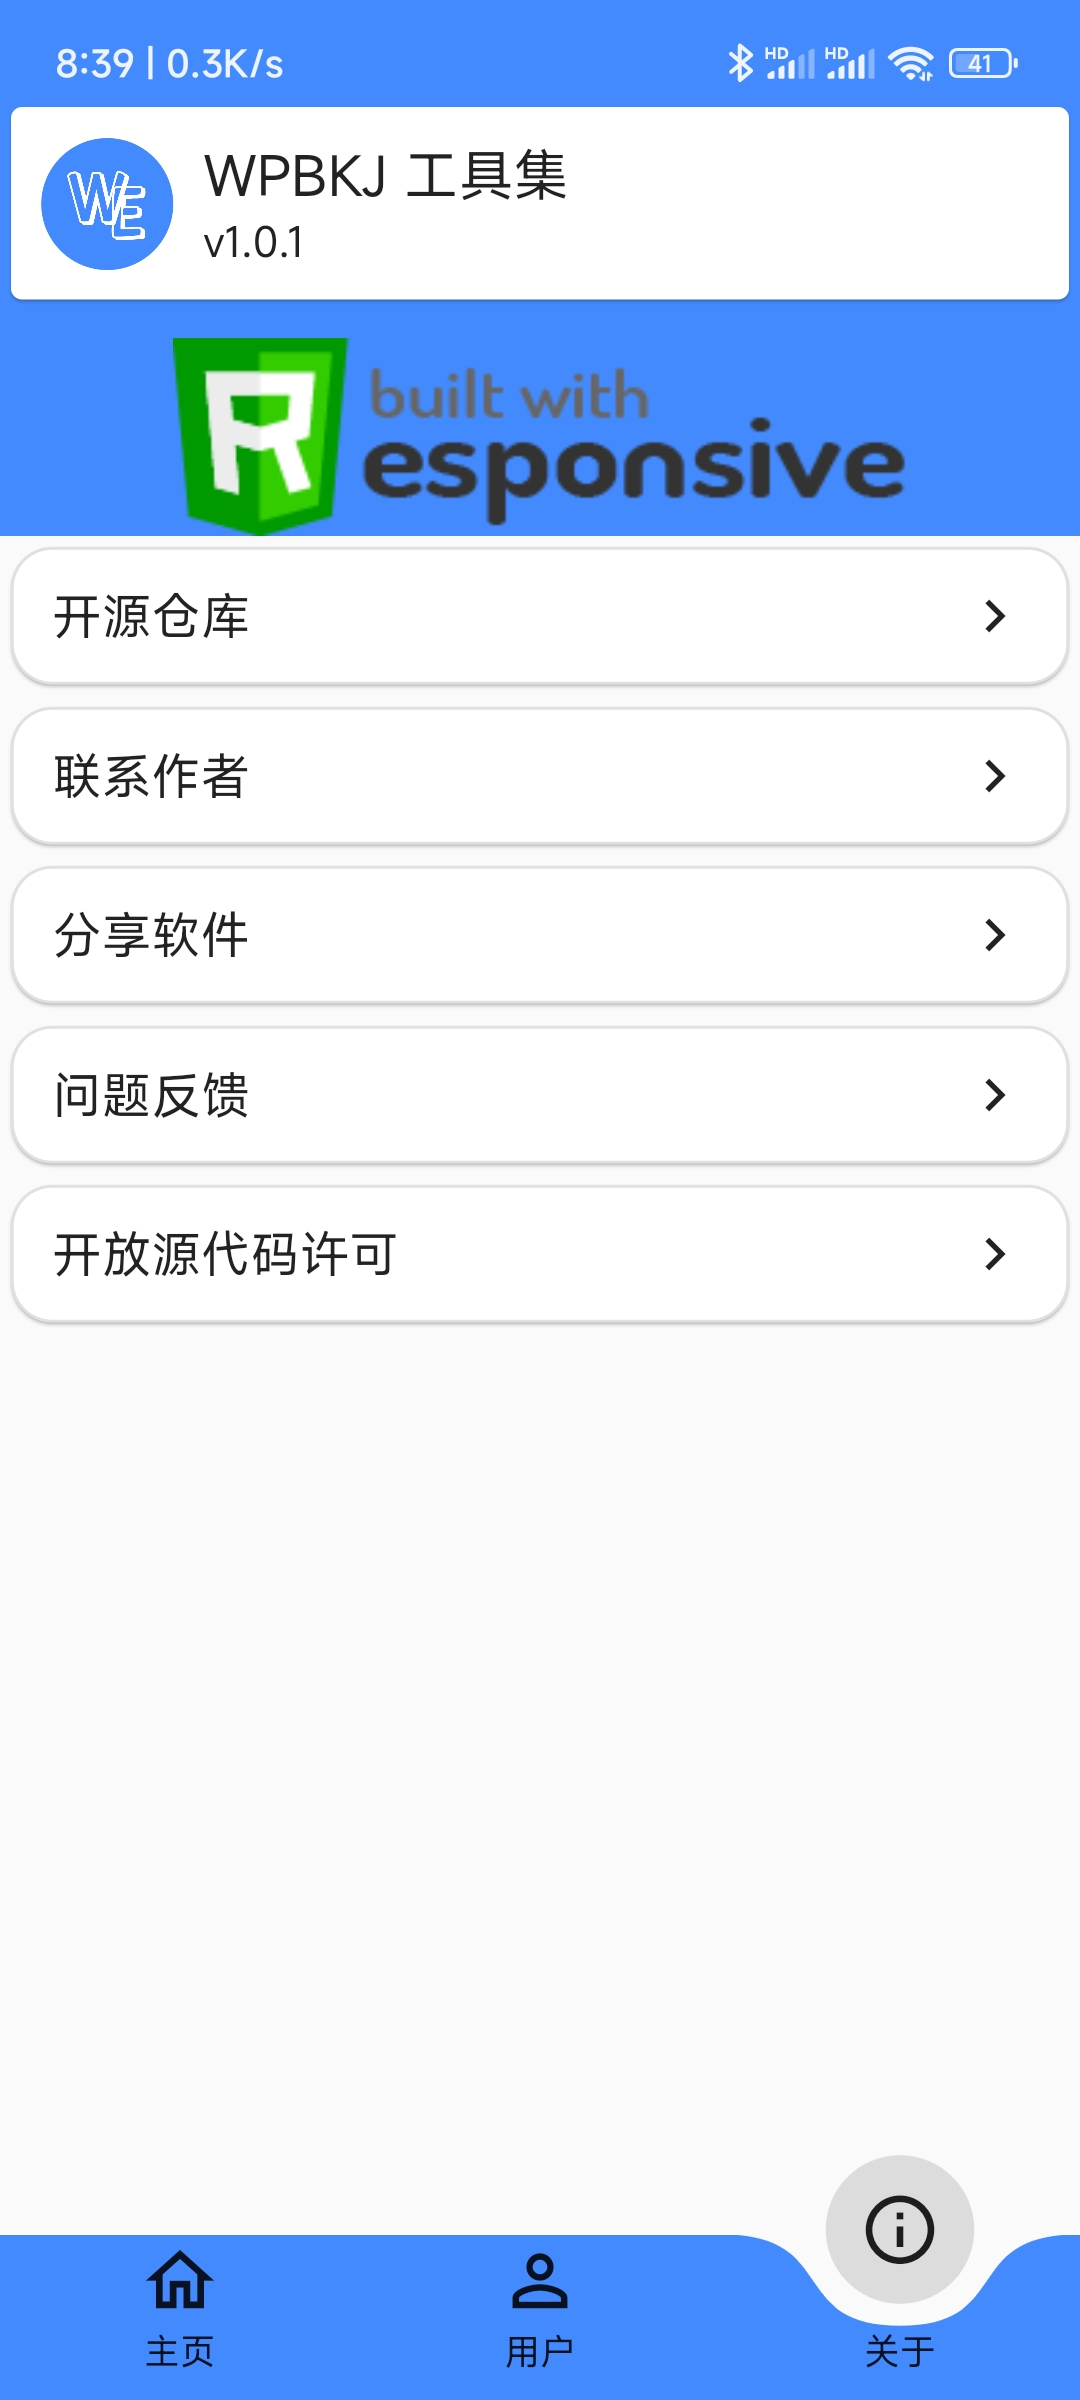
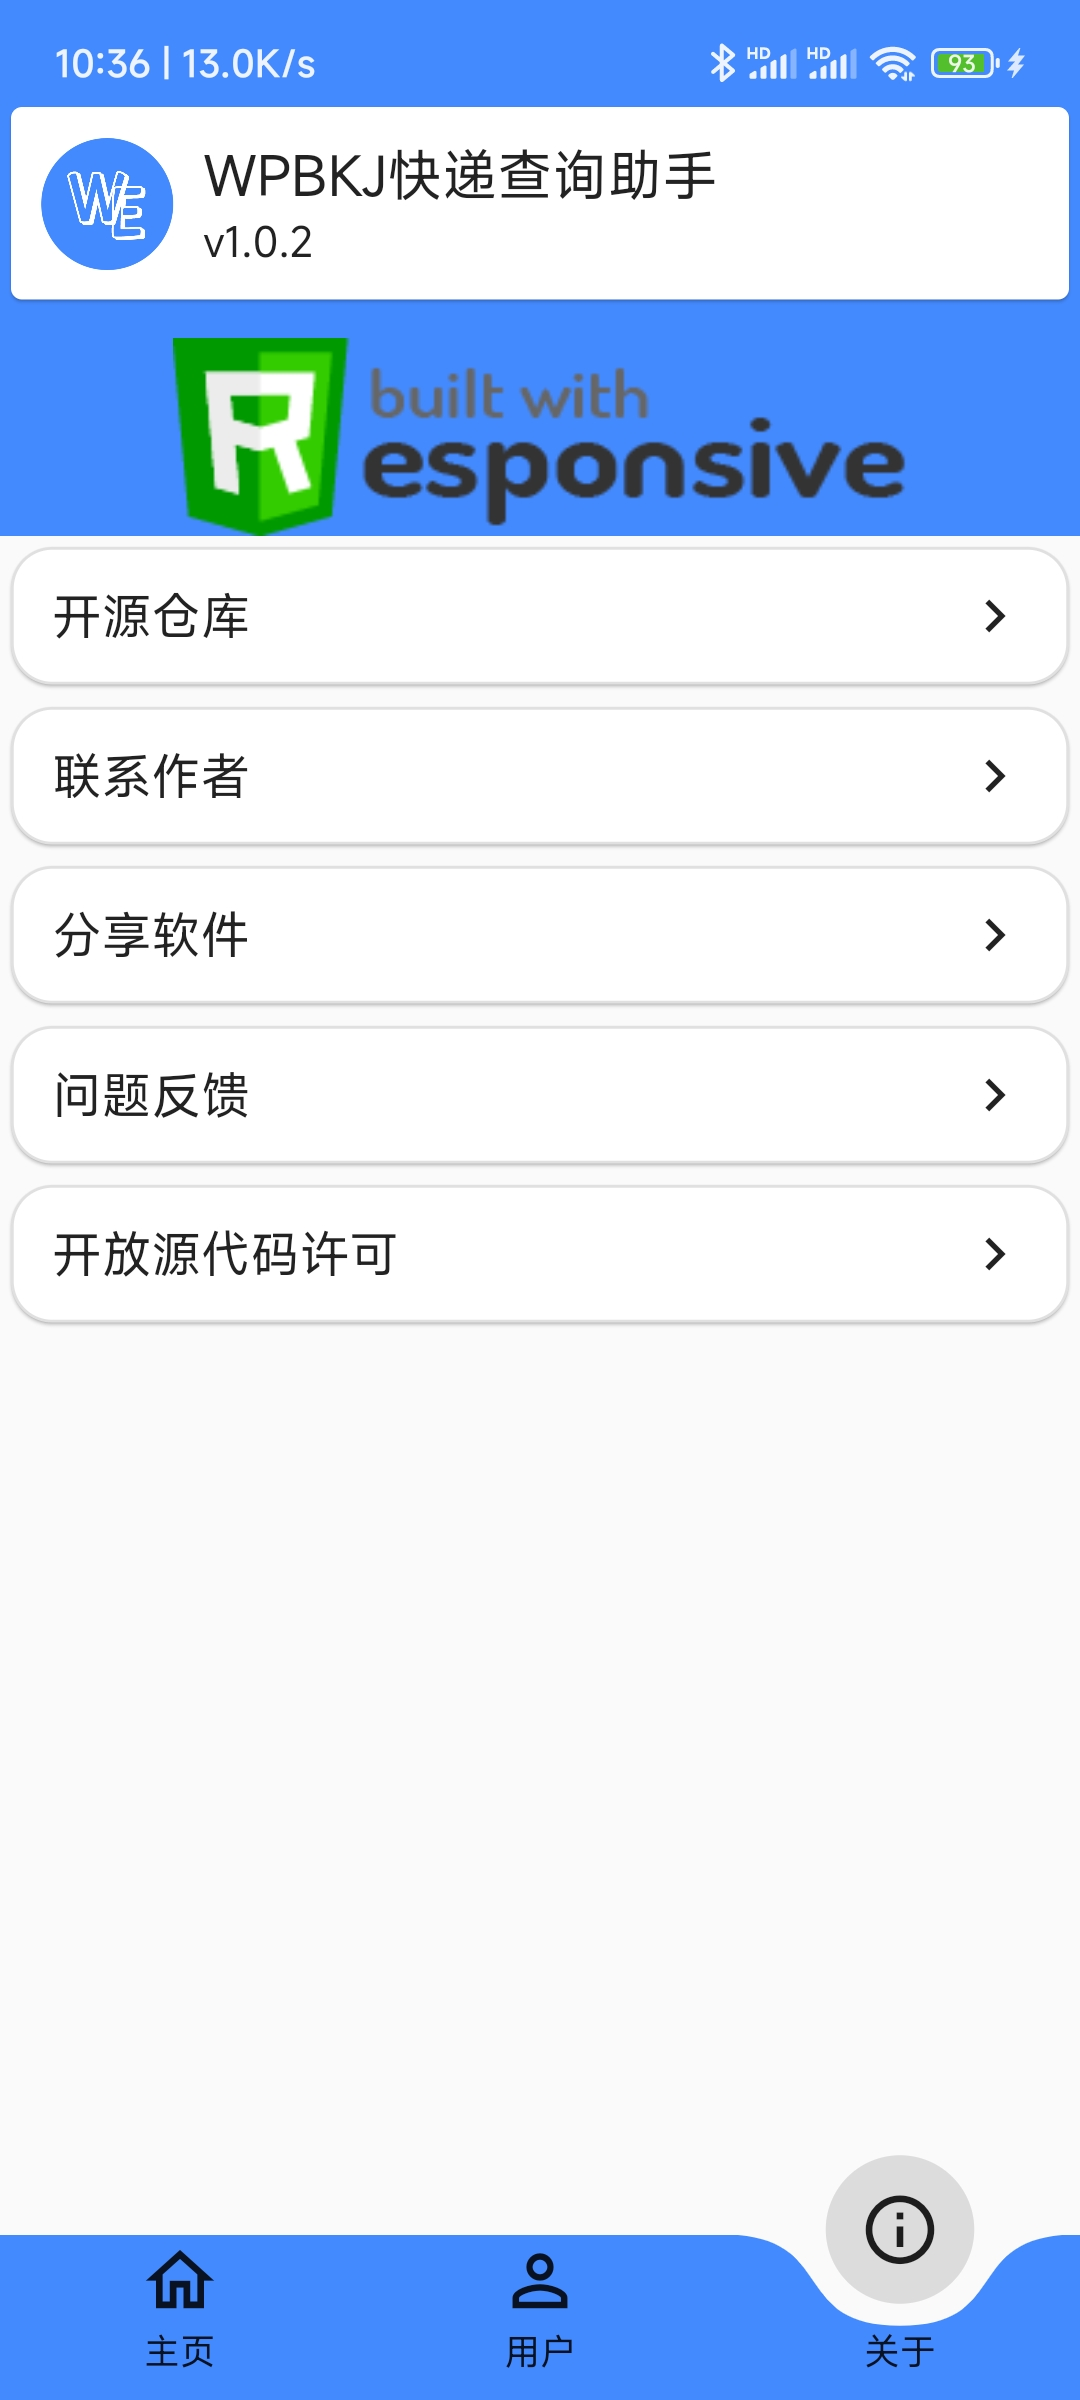
更新readme版本号及屏幕截图

Changed region(s): [[0.6417, 0.0, 0.9472, 0.0312], [0.3667, 0.0625, 0.6722, 0.0938], [0.0611, 0.0, 0.275, 0.0312]]

diff --git a/README.md b/README.md
@@ -1,7 +1,7 @@
 # 欢迎使用WPBKJ 快递查询助手
 <img src="assets/logo.png" width="100">
 
-![flutter_wpbkj_express](https://img.shields.io/badge/flutter-wpbkj__express-blue)![Apache License](https://img.shields.io/badge/license-Apache%202-green)![version](https://img.shields.io/badge/version-v1.0.1-blue)
+![flutter_wpbkj_express](https://img.shields.io/badge/flutter-wpbkj__express-blue)![Apache License](https://img.shields.io/badge/license-Apache%202-green)![version](https://img.shields.io/badge/version-v1.0.2-blue)
 
 [项目官方介绍页面](https://www.wpbkj.com/archives/flutter_wpbkj_express.html)
 ## 介绍
